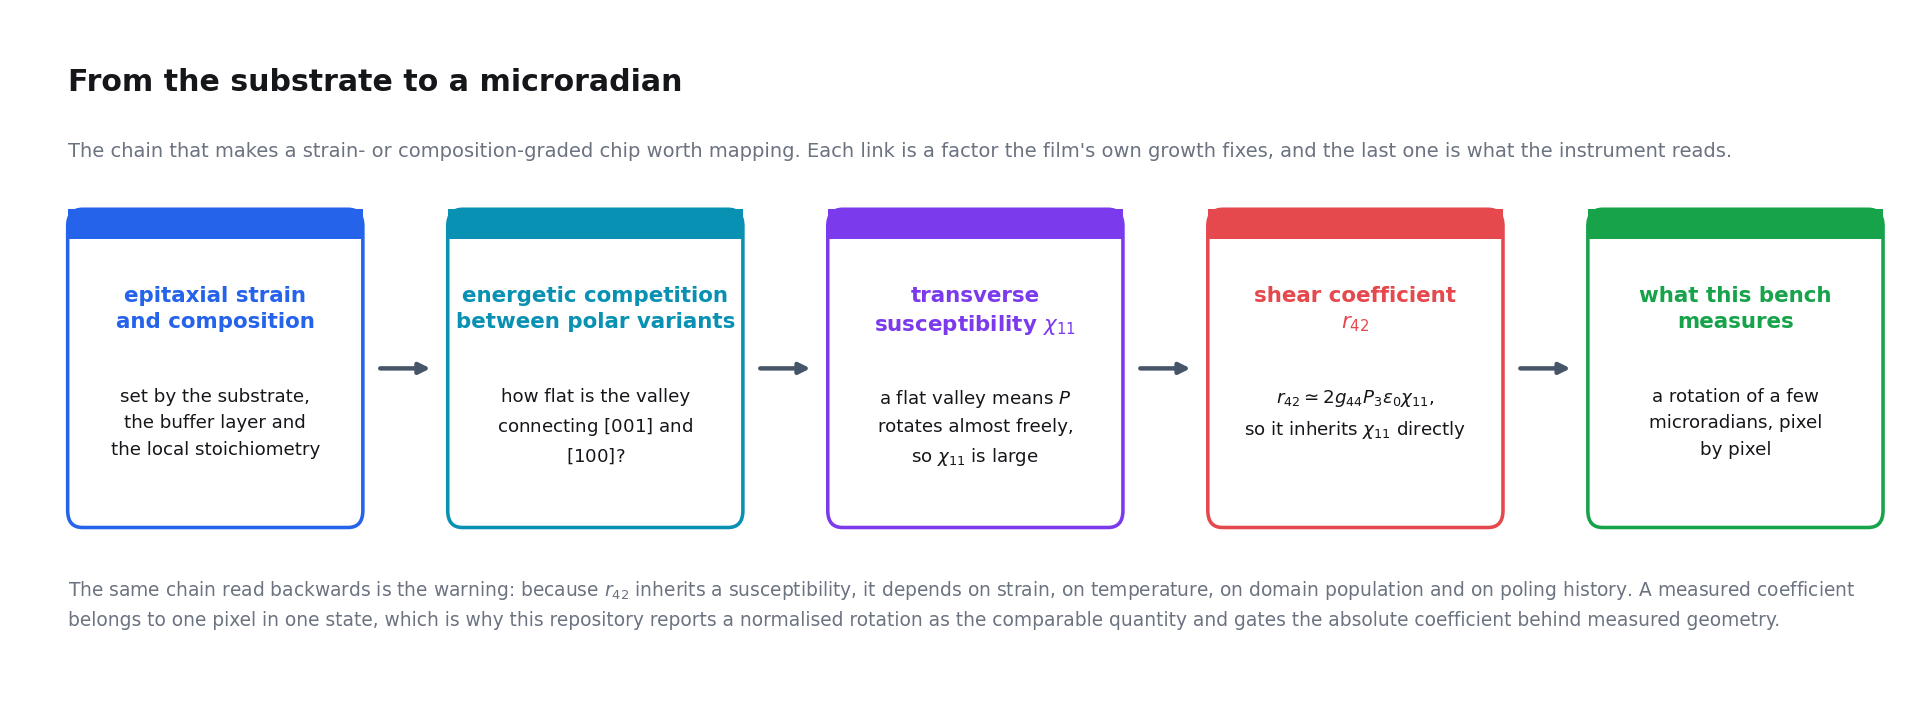
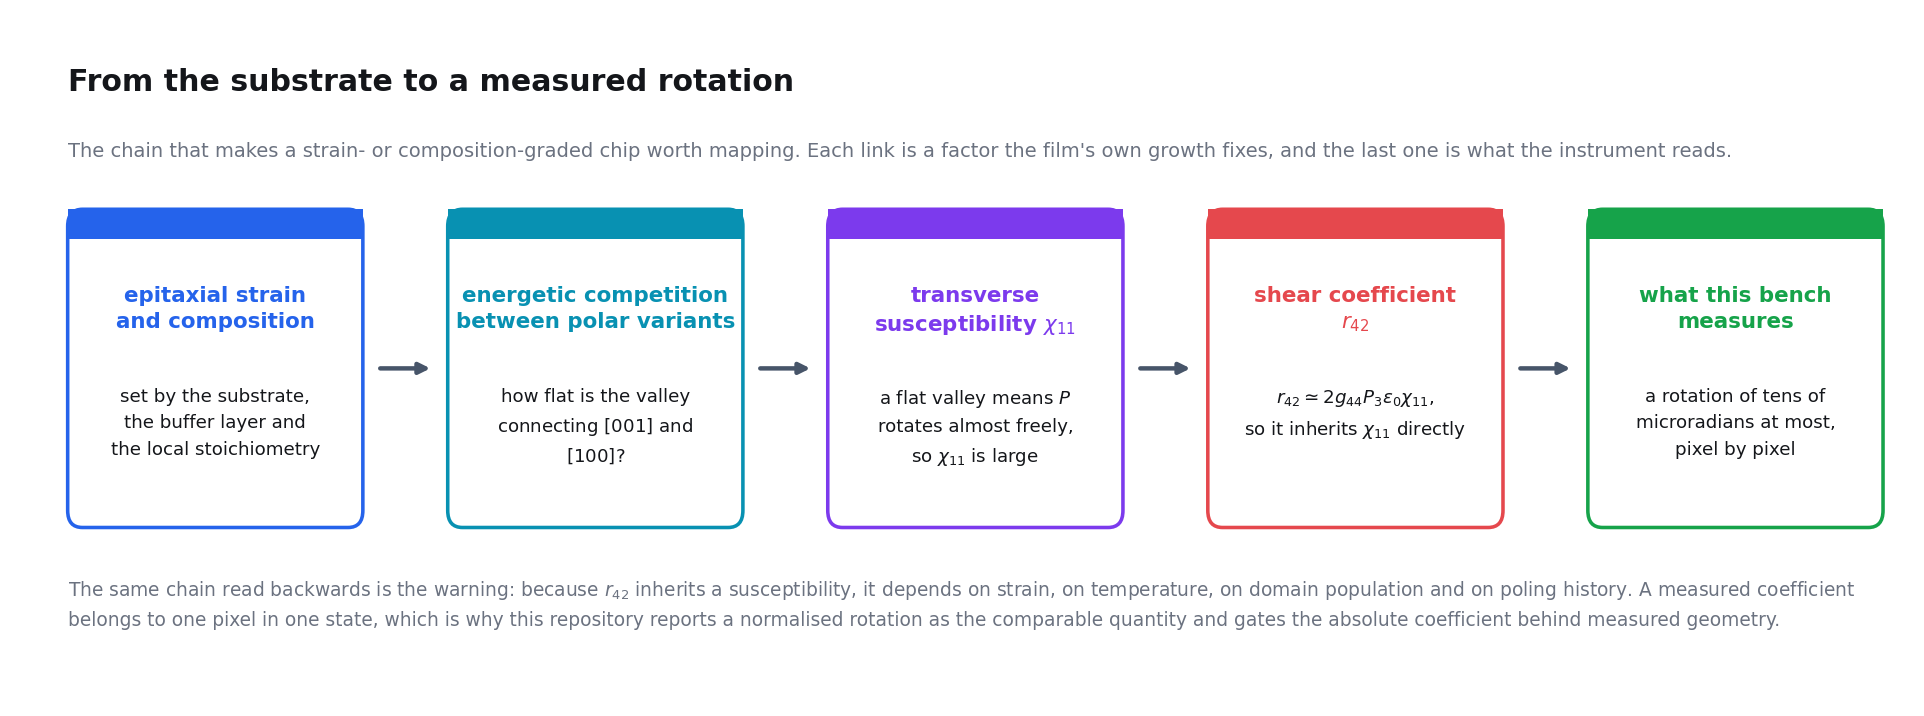
Add requirements files, citation metadata and the GitHub settings note
requirements.txt lists the runtime packages and requirements-test.txt
the four that the test suite and the figure scripts need, so a fresh
clone has one install command instead of a hand-typed list. pandas is
included at runtime because two of the chip-level report scripts import
it, which the installation page already said. The README quick start and
the installation page reference both files.

CITATION.cff gains a version and today's release date. No affiliation,
ORCID or DOI is added, because the owner has not confirmed them.

CLAUDE.md gains the repository description and topics that the owner
should paste into the GitHub settings by hand, since there is no gh CLI
or API token on this machine.

The em dash in the first line of .gitignore is removed, because the
house rule covers comments.

The two figures whose embedded text changed in the previous commit,
eo_from_susceptibility.png and poincare_modulation.png, are regenerated
from their scripts. The other figures those scripts produce are left as
committed, because their source did not change.

Changed region(s): [[0.842, 0.5223, 0.9667, 0.6453], [0.2495, 0.0922, 0.4054, 0.1229]]

diff --git a/tests/test_docs_physics_claims.py b/tests/test_docs_physics_claims.py
@@ -40,7 +40,7 @@ import unittest
 import numpy as np
 
 
-# ------------------------------------------------------------------ Jones --
+# ------------------------------------------------------------------ Jones
 def retarder(retardance, fast_axis):
     """Linear retarder: ``retardance`` of phase (rad), fast axis at ``fast_axis`` (rad)."""
     c, s = math.cos(fast_axis), math.sin(fast_axis)

diff --git a/docs/guide/installation.md b/docs/guide/installation.md
@@ -53,8 +53,13 @@ Python 3.9 or newer. Anaconda is the usual choice on the measurement PC because
 it ships Tk and a working SciPy stack.
 
 ```bat
-python -m pip install numpy scipy matplotlib pandas pyvisa pyserial pythonnet clr_loader opencv-python
+python -m pip install -r requirements.txt
 ```
+
+[`requirements.txt`](../../requirements.txt) at the repository root lists the
+runtime packages in the table below. A machine that will never drive hardware
+only needs [`requirements-test.txt`](../../requirements-test.txt), the four
+packages the test suite and the figure scripts import.
 
 | Package | Needed for | Required where |
 | --- | --- | --- |
@@ -208,12 +213,13 @@ This works on **any** machine, hardware or not:
 
 ```bash
 cd /path/to/Auto_Sernamont
+python -m pip install -r requirements-test.txt
 python -m unittest discover -s tests -p "test_*.py"
 ```
 
 The run ends with `OK` and the number of tests it ran. The suite needs
 `pyserial` installed even with no hardware attached, because the modules under
-test import it; the install line in [§2](#2-python-dependencies) provides it.
+test import it; `requirements-test.txt` provides it.
 A failure here is a software problem, not a hardware one, and it tells you so
 before you have spent an hour at the bench. Individual test files run directly:
 

diff --git a/CLAUDE.md b/CLAUDE.md
@@ -154,6 +154,20 @@ There is no `gh` CLI and no GitHub API token on this machine. SSH push works;
 creating a repository does not, so a new repository has to be made by hand
 first.
 
+## GitHub settings to paste by hand
+
+The repository page shows "No description, website, or topics provided", and
+there is no `gh` CLI or API token on this machine to set them. Paste these
+into the repository settings on github.com.
+
+Description:
+
+    Automated Sénarmont polarimetry for Pockels-coefficient and ferroelectric-hysteresis mapping of BaTiO₃ thin films
+
+Topics:
+
+    electro-optics pockels-effect barium-titanate ferroelectrics polarimetry senarmont lock-in-amplifier lab-automation photonics python
+
 ## Known open item, now checked
 
 `docs/physics/04-incident-polarisation.md` section 8 states the reverse of

diff --git a/README.md b/README.md
@@ -119,7 +119,7 @@ The manual is the point of this repository. Start wherever you need to.
 ```bash
 git clone https://github.com/adambickerdike/Auto_Sernamont.git
 cd Auto_Sernamont
-pip install numpy scipy matplotlib pyvisa pyserial pythonnet clr_loader opencv-python
+pip install -r requirements.txt        # or requirements-test.txt for the tests alone
 ```
 
 ```bash
